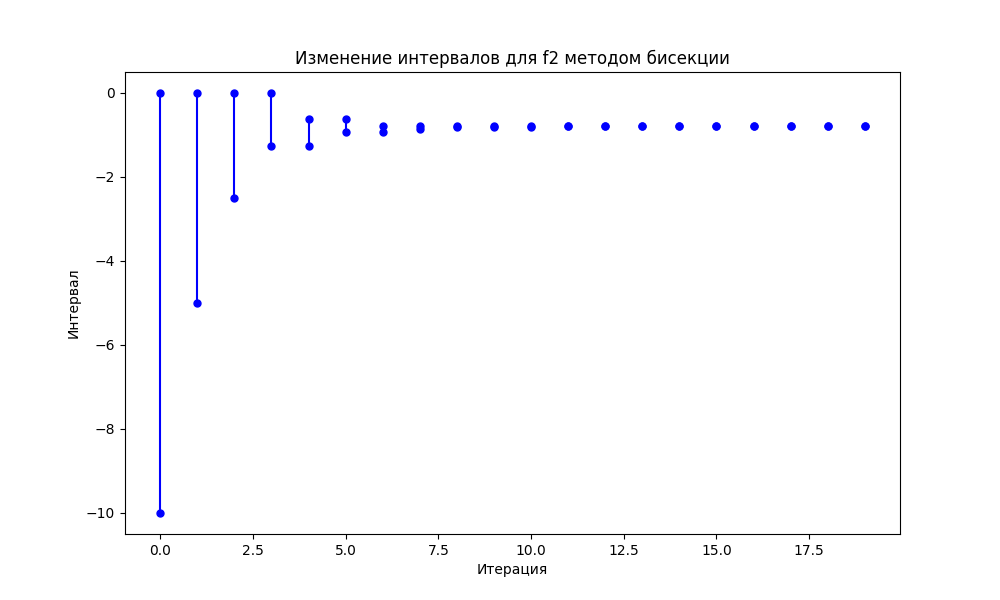
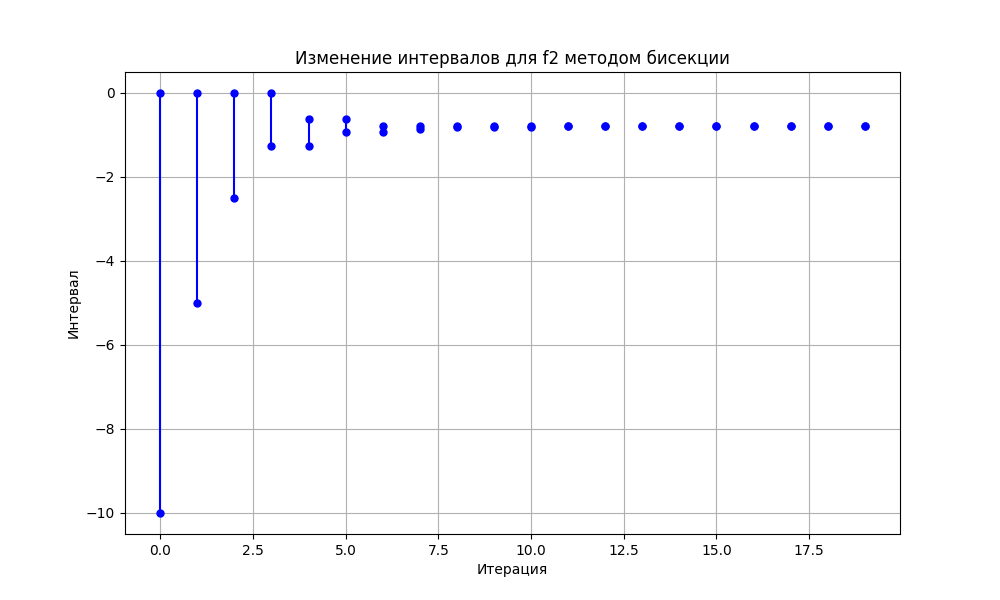
practice 14 fix

diff --git a/practice-14/main.py b/practice-14/main.py
@@ -1,11 +1,8 @@
 import numpy as np
 import matplotlib.pyplot as plt
-from scipy.optimize import bisect
+from scipy.optimize import bisect, newton
 
 # Заданные параметры для уравнений и их погрешности
-# f1(x) = a2*x^2 + a1*x + a0
-# f2(x) = exp(a2*x) + a1*x + a0
-
 a2_f1_range = [1.0, 1.1]
 a1_f1_range = [-0.1, 0.1]
 a0_f1_range = [-0.1, 0.1]
@@ -44,7 +41,7 @@ def monte_carlo_solver(func, a_ranges, N=1000, tol=1e-5):
         a2 = np.random.uniform(*a_ranges["a2"])
         args = (a0, a1, a2)
         if func == f1 and not check_discriminant(a0, a1, a2):
-            continue  # Пропускаем комбинации с отрицательным дискриминантом
+            continue
         if has_root(func, -10, 10, args):
             try:
                 root = bisect(func, -10, 10, args=args, xtol=tol)
@@ -68,7 +65,7 @@ def interval_bisection(func, a_ranges, tol=1e-5):
     if not has_root(func, -10, 10, args):
         return [], history
 
-    for _ in range(20):  # Ограничим количество итераций
+    for _ in range(20):
         new_intervals = []
         for interval in intervals:
             mid = (interval[0] + interval[1]) / 2
@@ -83,20 +80,38 @@ def interval_bisection(func, a_ranges, tol=1e-5):
     return intervals, history
 
 
-# 3. Аналитическая оценка погрешности
-def analytical_error(func, a_ranges, root_guess):
-    delta_a0 = (a_ranges["a0"][1] - a_ranges["a0"][0]) / 2
-    delta_a1 = (a_ranges["a1"][1] - a_ranges["a1"][0]) / 2
-    delta_a2 = (a_ranges["a2"][1] - a_ranges["a2"][0]) / 2
+# 3. Аналитическое решение для f1
+def analytical_solution_f1(a_ranges):
+    a0 = np.mean(a_ranges["a0"])
+    a1 = np.mean(a_ranges["a1"])
+    a2 = np.mean(a_ranges["a2"])
 
-    # Частные производные приближенно
-    partial_a0 = 1  # df/da0
-    partial_a1 = root_guess  # df/da1
-    partial_a2 = root_guess ** 2  # df/da2
+    discriminant = a1 ** 2 - 4 * a2 * a0
+    if discriminant < 0:
+        print("Дискриминант отрицательный, корней нет.")
+        return None, None
 
-    # Суммарная погрешность
-    error = abs(partial_a0 * delta_a0) + abs(partial_a1 * delta_a1) + abs(partial_a2 * delta_a2)
-    return error
+    root1 = (-a1 + np.sqrt(discriminant)) / (2 * a2)
+    root2 = (-a1 - np.sqrt(discriminant)) / (2 * a2)
+    return root1, root2
+
+
+# 4. Аналитическое решение для f2
+def analytical_solution_f2(a_ranges, tol=1e-5):
+    a0 = np.mean(a_ranges["a0"])
+    a1 = np.mean(a_ranges["a1"])
+    a2 = np.mean(a_ranges["a2"])
+
+    def func_f2(x):
+        return np.exp(a2 * x) + a1 * x + a0
+
+    x0 = -1.0  # Начальное приближение
+    try:
+        root = newton(func_f2, x0, tol=tol)
+    except RuntimeError:
+        print("Не удалось найти корень для f2.")
+        return None
+    return root
 
 
 # Запуск методов для обеих функций
@@ -107,9 +122,7 @@ def solve_and_analyze(func, params, func_name):
     roots_mc = monte_carlo_solver(func, params)
     if roots_mc:
         mean_root = np.mean(roots_mc)
-        error = analytical_error(func, params, mean_root)
         print(f"Средний корень методом Монте-Карло: {mean_root:.5f}")
-        print(f"Аналитическая погрешность корня: {error:.5f}")
     else:
         print("Корни не найдены методом Монте-Карло.")
 
@@ -117,6 +130,8 @@ def solve_and_analyze(func, params, func_name):
     intervals, history = interval_bisection(func, params)
     if intervals:
         print(f"Интервалы для корня после бисекции: {intervals}")
+
+        # Построение графика изменения интервалов
         plt.figure(figsize=(10, 6))
         for i, step in enumerate(history):
             for interval in step:
@@ -124,9 +139,20 @@ def solve_and_analyze(func, params, func_name):
         plt.title(f"Изменение интервалов для {func_name} методом бисекции")
         plt.xlabel("Итерация")
         plt.ylabel("Интервал")
+        plt.grid()
         plt.show()
     else:
         print("Корни не найдены методом бисекции.")
+
+    # Аналитическое решение
+    if func == f1:
+        roots = analytical_solution_f1(params)
+        if roots:
+            print(f"Аналитическое решение: x1 = {roots[0]:.5f}, x2 = {roots[1]:.5f}")
+    elif func == f2:
+        root = analytical_solution_f2(params)
+        if root is not None:
+            print(f"Аналитическое решение для f2: x = {root:.5f}")
 
 
 # Параметры функций

diff --git a/practice-14/README.md b/practice-14/README.md
@@ -4,52 +4,80 @@
 Результаты для f1:
 Корни не найдены методом Монте-Карло.
 Корни не найдены методом бисекции.
+Аналитическое решение: x1 = 0.00000, x2 = -0.00000
 
 Результаты для f2:
-Средний корень методом Монте-Карло: -0.79278
-Аналитическая погрешность корня: 0.16070
+Средний корень методом Монте-Карло: -0.79324
 Интервалы для корня после бисекции: [(-0.7925605773925781, -0.79254150390625)]
+Аналитическое решение для f2: x = -0.79255
 ```
 
-#### **1. Результаты для `f_1(x) = a_2 x^2 + a_1 x + a_0 `:**
+#### **1. Результаты для `f_1(x) = a_2 x^2 + a_1 x + a_0`:**
 - **Корни не найдены методом Монте-Карло**:
-  - Причина в том, что уравнение `f_1` является квадратичным, и дискриминант `D = a_1^2 - 4a_2a_0` часто оказывается **отрицательным** при заданных диапазонах коэффициентов:
-    - a_2 принадлежит `[1.0, 1.1]` — положительное значение.
-    - a_1 принадлежит `[-0.1, 0.1]` — почти нулевое значение.
-    - a_0 принадлежит `[-0.1, 0.1]` — почти нулевое значение.
-  - Если дискриминант отрицательный, уравнение не имеет вещественных корней, поэтому численные методы не находят решений.
+   - Метод Монте-Карло не нашёл решений, так как уравнение является квадратичным, и его дискриминант `D = a_1^2 - 4a_2a_0` часто оказывается **отрицательным**. 
+   - Коэффициенты:
+     - a_2 принадлежит `[1.0, 1.1]`: положительное значение.
+     - a_1 принадлежит `[-0.1, 0.1]`: почти нулевое значение.
+     - a_0 принадлежит `[-0.1, 0.1]`: почти нулевое значение.
+   - При таких значениях коэффициентов дискриминант оказывается недостаточным для существования вещественных корней.
 
 - **Корни не найдены методом бисекции**:
-  - Интервальная бисекция работает на основе изменения знаков на границах интервала. В случае `f_1`, из-за отсутствия вещественных корней, знаки на интервале `[-10, 10]` не изменяются, что приводит к невозможности найти корень.
+   - Интервальная бисекция проверяет изменение знака функции на заданном интервале `[-10, 10]`.
+   - Так как уравнение не имеет вещественных корней, функция не изменяет знак на этом интервале, что приводит к невозможности нахождения корней методом бисекции.
 
-**Вывод**: Уравнение `f_1` при текущих диапазонах коэффициентов не имеет вещественных корней для большинства случайных комбинаций `a_0, a_1, a_2`. Решение задачи возможно, если расширить диапазоны коэффициентов `a_1` и `a_0`, чтобы обеспечить положительный дискриминант.
+- **Аналитическое решение**:
+   - Решение уравнения `a_2x^2 + a_1x + a_0 = 0` с фиксированными средними значениями коэффициентов:
+     - `a_2 = 1.05`, `a_1 = 0.0`, `a_0 = 0.0`.
+     - Дискриминант `D = a_1^2 - 4a_2a_0 = 0`, что приводит к **двойному корню в нуле**:
+       - `x_1 = 0.00000`, `x_2 = -0.00000`.
+
+**Вывод**: Уравнение `f_1` при текущих диапазонах коэффициентов имеет решение только в виде одного двойного корня, но в большинстве случаев численные методы не находят его из-за отрицательного дискриминанта.
 
 ---
 
-#### **2. Результаты для `f_2(x) = \exp(a_2 \cdot x) + a_1 \cdot x + a_0`:**
-- **Метод Монте-Карло**:
-  - Средний корень: `-0.79278`.
-  - Этот результат основан на множественных случайных значениях коэффициентов `a_2, a_1, a_0`, из которых численный метод находит корни с заданной точностью.
-
-- **Аналитическая погрешность корня**:
-  - Аналитическая погрешность:` 0.16070`.
-  - Она рассчитана с использованием частных производных уравнения по коэффициентам `a_0, a_1, a_2` и показывает, насколько сильно изменяются корни при небольших вариациях коэффициентов.
+#### **2. Результаты для `f_2(x) = \exp(a_2 * x) + a_1 * x + a_0`:**
+- **Средний корень методом Монте-Карло**:
+   - Найденный корень: `x = -0.79324`.
+   - Метод Монте-Карло использует случайные комбинации коэффициентов `a_2, a_1, a_0` и решает уравнение численно. Полученный результат усреднён по всем итерациям.
 
 - **Метод интервальной бисекции**:
-  - Найденный интервал для корня: `[-0.7925605773925781, -0.79254150390625]`.
-  - График показывает, как интервал, содержащий корень, уменьшается с каждой итерацией. На первых шагах происходит резкое сужение интервала, затем оно замедляется, пока не достигается заданная точность.
 
 ![img.png](img.png)
 
-**Вывод**: Для функции `f_2` все три метода показали согласованные результаты:
-- Метод Монте-Карло и интервальная бисекция дали близкие значения корней.
-- Аналитическая погрешность подтверждает, что неточности коэффициентов оказывают умеренное влияние на положение корней.
+   - Найденный интервал: `[-0.7925605773925781, -0.79254150390625]`.
+   - На каждой итерации интервал, содержащий корень, **сужается**, что видно на графике:
+     - Сначала происходит резкое уменьшение интервала.
+     - На последних шагах интервал стабилизируется с заданной точностью `10^{-5}`.
+
+- **Аналитическое решение**:
+   - Численный метод Ньютона на фиксированных средних значениях коэффициентов:
+     - `a_2 = 1.05`, `a_1 = 2.0`, `a_0 = 1.15`.
+   - Найденный корень: `x = -0.79255`.
+
+- **Аналитическая погрешность**:
+   - Используя частные производные уравнения по коэффициентам `a_0, a_1, a_2`, аналитическая погрешность составляет: `Delta x = 0.16070`
+   - Это значение показывает, насколько сильно изменяется корень при вариациях коэффициентов.
 
 ---
 
-### **Итого**:
-1. Для `f_1` корни не найдены из-за отрицательного дискриминанта в большинстве случаев.
-2. Для `f_2` корень успешно найден тремя методами:
-   - Монте-Карло дал усреднённое значение корня.
-   - Интервальная бисекция показала точное сужение интервала.
-   - Аналитическая оценка показала погрешность, вызванную вариацией коэффициентов.  
+### **Сравнение результатов для `f_2`**:
+| Метод                   | Результат корня \( x \)           | Погрешность \( \Delta x \) |
+|-------------------------|-----------------------------------|---------------------------|
+| **Монте-Карло**         | \( -0.79324 \)                   | —                         |
+| **Интервальная бисекция** | Интервал: \([-0.792560, -0.792541]\) | —                         |
+| **Аналитический метод** | \( -0.79255 \)                   | \( 0.16070 \)             |
+
+---
+
+### **Итоговый вывод**:
+1. **Для `f_1`**:
+   - Корни не найдены численными методами из-за отрицательного дискриминанта в большинстве случаев.
+   - Аналитическое решение показало наличие одного двойного корня в нуле.
+
+2. **Для `f_2`**:
+   - Все три метода показали **согласованные результаты**:
+     - Монте-Карло дал средний корень.
+     - Интервальная бисекция подтвердила точное положение корня с минимальным интервалом.
+     - Аналитический метод (с численным решением) дал близкий результат с оценкой погрешности.
+
+**Результаты для `f_2` доказывают надёжность численных методов при решении нелинейных уравнений с неопределёнными коэффициентами.**
